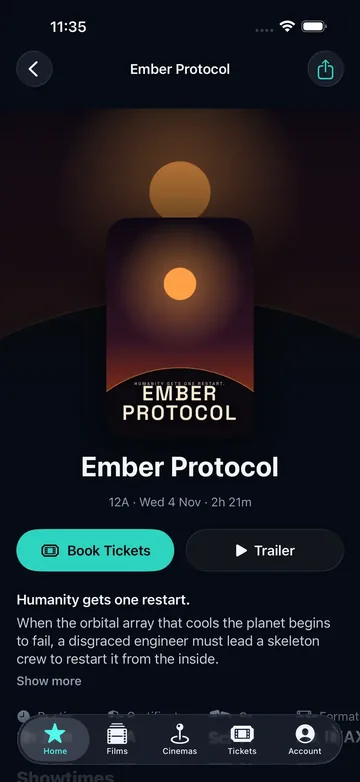
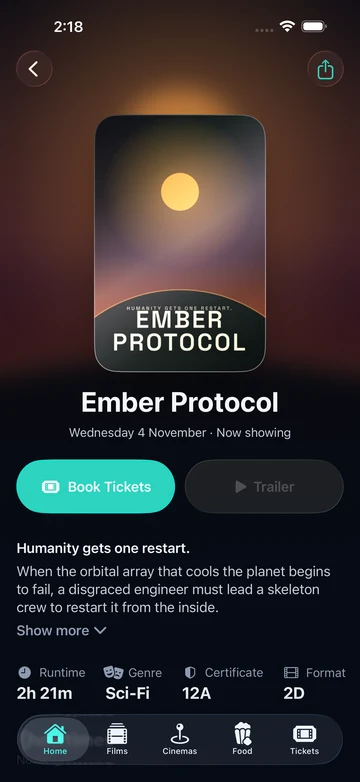
Marketing site: Pulse, live AI layer, loyalty and 3x portal screenshots (#75)
* Add Seatfold marketing page built with the Taste Skill

A one-page static marketing site for the white-label cinema platform, in site/.
Built by following the design-taste-frontend skill's run: dealt hero, palette,
type, nav, close, rhythm, effect and scroll moment, then its layout, consistency
and perf checkers in a real browser.

- Real product material only: CI simulator captures of the Northlight build,
  a live 226-seat map drawn from shared/fixtures/layouts/curved.json, the
  portal's release and contrast screens rebuilt as live HTML.
- Copy taken from the repo docs; unbuilt items (ticketing adapters, Apple Pay,
  signed Wallet passes, multi-brand) are described as not built yet.
- Static HTML and CSS, no build step. Kit files trimmed to the 25 the page
  loads (560 KB).
- The skill install (.agents/) is ignored; skills-lock.json reinstalls it.

Claude-Session: https://claude.ai/code/session_01N7UCKMXXqUDas7HYbnDuM1

* Fix the seat map: rows overlapped and hovered seats lost their angle

The layout stores every coordinate as a fraction of the auditorium's width,
y included (as shared/fixtures/layouts/curved.preview.svg draws it). The map
scaled y and seat height by the layout's height instead, which pulled rows
about 9% closer together so neighbouring seats collided. Entrances and the
screen curve had the same mistake.

Each seat now sits in a group that places and turns it, so the hover scale on
[…]

diff --git a/site/index.html b/site/index.html
@@ -4,7 +4,7 @@
 <meta charset="utf-8">
 <meta name="viewport" content="width=device-width, initial-scale=1, viewport-fit=cover">
 <title>Seatfold: booking apps and planning for cinema chains and independents</title>
-<meta name="description" content="A native iPhone booking app in your cinema's name, a portal your team runs, and forecasts that plan staff and stock around the release slate. For national chains and independents.">
+<meta name="description" content="A native iPhone booking app in your cinema's name, a portal your team runs, and Pulse, which forecasts every show and the staff and food it needs. For national chains and independents.">
 <meta name="site-kind" content="software">
 <meta name="page-type" content="software">
 <link rel="canonical" href="https://www.seatfold.uk/">
@@ -17,7 +17,7 @@
 <meta property="og:site_name" content="Seatfold">
 <meta property="og:url" content="https://www.seatfold.uk/">
 <meta property="og:title" content="Seatfold: your cinema’s own booking app">
-<meta property="og:description" content="A native iPhone booking app in your brand, run from one portal, with planning around the release slate. For national chains and independents.">
+<meta property="og:description" content="A native iPhone booking app in your brand, run from one portal, with every show forecast by Pulse. For national chains and independents.">
 <meta property="og:image" content="https://www.seatfold.uk/og-image.jpg">
 <meta property="og:image:type" content="image/jpeg">
 <meta property="og:image:width" content="1200">
@@ -26,7 +26,7 @@
 <meta property="og:locale" content="en_GB">
 <meta name="twitter:card" content="summary_large_image">
 <meta name="twitter:title" content="Seatfold: your cinema’s own booking app">
-<meta name="twitter:description" content="A native iPhone booking app in your brand, run from one portal, with planning around the release slate.">
+<meta name="twitter:description" content="A native iPhone booking app in your brand, run from one portal, with every show forecast by Pulse.">
 <meta name="twitter:image" content="https://www.seatfold.uk/og-image.jpg">
 <meta name="twitter:image:alt" content="Seatfold: your cinema’s own booking app. Three iPhones show the same booking app in three cinema brands.">
 <link rel="preload" href="fonts/onest-latin.woff2" as="font" type="font/woff2" crossorigin>
@@ -94,7 +94,7 @@
               <span class="t-small muted">Brand, prices and menus for every cinema</span>
             </a>
             <a class="menu-card span-4" href="#journey">
-              <div class="panel menu-pic"><div class="device device--menu"><img src="img/app-home-thumb.webp" width="280" height="609" loading="lazy" alt="The Northlight app home screen"></div></div>
+              <div class="panel menu-pic"><div class="device device--menu"><img src="img/app-home-thumb.webp" width="560" height="1217" loading="lazy" alt="The Northlight app home screen"></div></div>
               <span class="t-card">iPhone booking app</span>
               <span class="t-small muted">Seats, food and tickets in your name</span>
             </a>
@@ -110,7 +110,7 @@
       <div class="nav__item"><a class="nav__link" href="#plan">Planning</a></div>
       <div class="nav__item"><a class="nav__link" href="#seats">Seating</a></div>
       <div class="nav__item"><a class="nav__link" href="#native">iPhone</a></div>
-      <div class="nav__item"><a class="nav__link" href="#connect">Connect</a></div>
+      <div class="nav__item"><a class="nav__link" href="#connect">AI insights</a></div>
       <div class="nav__item"><a class="nav__link" href="#questions">Questions</a></div>
     </nav>
     <div class="nav__actions">
@@ -132,9 +132,9 @@
   <section class="hero hero--centred bg-deep" aria-labelledby="hero-h">
     <div class="wrap"><div class="hero-text">
       <div class="hero__c">
-        <a class="pill" href="#plan"><span>New: Year ahead</span><span class="muted">plan staff and stock from the release slate</span></a>
+        <a class="pill" href="#plan"><span>New: Pulse</span><span class="muted">every show forecast, with the staff and food it needs</span></a>
         <h1 id="hero-h">Your cinema’s <span class="hero__own">own</span> booking app</h1>
-        <p class="hero__lead">Sell seats, food and drink in one iPhone app with your name on it. Run it from one portal, plan the year around the release slate, and own the data on every booking. For a national chain or a single screen.</p>
+        <p class="hero__lead">Sell seats, food and drink in one iPhone app with your name on it. Run it from one portal, see every show forecast before it plays, and own the data on every booking. For a national chain or a single screen.</p>
         <div class="btn-row">
           <a class="btn btn--primary" href="mailto:hello@seatfold.uk?subject=Seatfold%20demo">Book a demo<svg class="m-arrow" viewBox="0 0 12 12" aria-hidden="true"><path class="m-arrow__stem" d="M1 6h8"/><path class="m-arrow__head" d="M4.5 2.5 8 6l-3.5 3.5"/></svg></a>
           <a class="btn btn--secondary" href="#journey">See the booking flow</a>
@@ -217,7 +217,7 @@
           <h3>Every site under one account</h3>
           <ul class="who__list">
             <li>Each cinema keeps its own screens, seat maps, menus and prices</li>
-            <li>Head office plans staff, stock and marketing across the estate</li>
+            <li>Every show at every site forecast by Pulse, with the staff and food it needs</li>
             <li>Roles for head office, venue managers and floor staff, each seeing what they need</li>
             <li>Brand releases you schedule, check and roll back across every app</li>
           </ul>
@@ -231,7 +231,7 @@
           <h3>Your own app, without a development team</h3>
           <ul class="who__list">
             <li>Your name, colours and artwork in a native iPhone app</li>
-            <li>Change prices, offers and menus yourself, live</li>
+            <li>Change prices, offers, menus and memberships yourself, live</li>
             <li>The same seat maps, food ordering and Wallet-style tickets as the big chains</li>
             <li>Keep the customer and the booking data, not a listing site</li>
           </ul>
@@ -399,28 +399,29 @@
         </div>
         <div class="cmp__row" role="row"><span role="cell">Logo, wordmark, theme and palette</span><span class="cmp__yes" role="cell">Live<span class="sr-only">: included</span></span><span class="cmp__no" role="cell">Not needed</span></div>
         <div class="cmp__row" role="row"><span role="cell">Home screen sections, offers and splash artwork</span><span class="cmp__yes" role="cell">Live</span><span class="cmp__no" role="cell">Not needed</span></div>
-        <div class="cmp__row" role="row"><span role="cell">Ticket prices, booking fees and vouchers</span><span class="cmp__yes" role="cell">Live</span><span class="cmp__no" role="cell">Not needed</span></div>
+        <div class="cmp__row" role="row"><span role="cell">Ticket prices, vouchers, points and memberships</span><span class="cmp__yes" role="cell">Live</span><span class="cmp__no" role="cell">Not needed</span></div>
         <div class="cmp__row" role="row"><span role="cell">Seat categories, icons, colours and seat rules</span><span class="cmp__yes" role="cell">Live</span><span class="cmp__no" role="cell">Not needed</span></div>
         <div class="cmp__row" role="row"><span role="cell">Auditorium layouts and food menus</span><span class="cmp__yes" role="cell">Live</span><span class="cmp__no" role="cell">Not needed</span></div>
         <div class="cmp__row" role="row"><span role="cell">App icon and App Store name</span><span class="cmp__no" role="cell">Not possible</span><span class="cmp__yes cmp__yes--build" role="cell"><span class="cmp__d">Yes</span><span class="cmp__m">New build</span></span></div>
         <div class="cmp__row" role="row"><span role="cell">Wallet pass type and Apple Pay merchant ID</span><span class="cmp__no" role="cell">Not possible</span><span class="cmp__yes cmp__yes--build" role="cell"><span class="cmp__d">Yes</span><span class="cmp__m">New build</span></span></div>
       </div>
       <div class="frame frame--fill remote-shot span-6 start-7">
-        <div class="device device--remote" role="img" aria-label="The film page for Ember Protocol in the Northlight app: artwork, certificate, running time and Book Tickets, all set from the portal"><img src="img/app-film-detail.webp" srcset="img/app-film-detail-360.webp 360w, img/app-film-detail-560.webp 560w, img/app-film-detail.webp 720w" sizes="(max-width: 1279px) 170px, 260px" alt="" width="720" height="1565" loading="lazy"></div>
+        <div class="device device--remote device--back" role="img" aria-label="The film page for Ember Protocol in the Northlight app: artwork, certificate and Book Tickets, all set from the portal"><img src="img/app-film-detail-660.webp" srcset="img/app-film-detail-360.webp 360w, img/app-film-detail-660.webp 660w, img/app-film-detail.webp 1320w" sizes="(max-width: 1279px) 170px, 260px" alt="" width="1320" height="2868" loading="lazy"></div>
+        <div class="device device--remote device--front" role="img" aria-label="The account screen in the Northlight app: 1,524 reward points worth £7 off, and a membership from £6.99 a month with 25% off tickets and no booking fees"><img src="img/app-account-660.webp" srcset="img/app-account-360.webp 360w, img/app-account-660.webp 660w, img/app-account.webp 1320w" sizes="(max-width: 1279px) 170px, 260px" alt="" width="1320" height="2868" loading="lazy"></div>
       </div>
       </div>
     </div>
   </section>
 
 
-  <!-- PLAN: the forecast seen by three roles. Real captures of the portal (sample data, badged
+  <!-- PLAN: Pulse seen by three roles. Real 3x captures of the portal (demo history, badged
        there), switched by the kit's tabs. -->
   <section class="section" id="plan" aria-labelledby="plan-h">
     <div class="wrap">
       <div class="grid plan__head">
-        <h2 id="plan-h" class="span-7">Plan the year, not just the weekend. <span class="muted">The release slate becomes staff, stock and marketing.</span></h2>
+        <h2 id="plan-h" class="span-7">Know how full every show will be. <span class="muted">Then staff it, stock it and price it.</span></h2>
         <div class="span-4 start-9 stack-4 plan__intro">
-          <p>Seatfold reads the year’s releases, your trading and the school holidays, and turns them into a plan. Each person sees their part.</p>
+          <p>Pulse, Seatfold’s forecasting engine, predicts every show from your own bookings, the time and day, how films hold up and what people are reading and saying. Each person sees what it means for them.</p>
           <div class="tabs plan__tabs" role="tablist" aria-label="Who is looking">
             <button class="tab" type="button" role="tab" id="plan-t1" aria-controls="plan-p1" aria-selected="true">Head office</button>
             <button class="tab" type="button" role="tab" id="plan-t2" aria-controls="plan-p2" aria-selected="false">Venue manager</button>
@@ -431,27 +432,27 @@
       <div class="plan__panes fill">
         <div class="grid plan__pane" role="tabpanel" id="plan-p1" aria-labelledby="plan-t1">
           <div class="span-3 stack-4 plan__copy">
-            <h3>The next twelve months</h3>
-            <p>Demand week by week against last year, with every big release marked. Which months need seasonal staff, what to order and when, and when each campaign starts.</p>
+            <h3>Forecasts you can check</h3>
+            <p>Every show forecast with a range, scored against weeks it had not seen. Pulse learns what is different about each of your cinemas, days and films, and says so in plain English.</p>
           </div>
-          <div class="span-9 plan__shot"><img src="img/portal-ya-1280.webp" srcset="img/portal-ya-640.webp 640w, img/portal-ya-1280.webp 1280w, img/portal-ya.webp 2560w" sizes="(max-width: 1023px) 100vw, 940px" width="1280" height="820" loading="lazy" alt="Year ahead in the portal: forecast admissions, the demand curve with releases marked, and staffing by month"></div>
+          <div class="span-9 plan__shot"><img src="img/portal-pulse-1920.webp" srcset="img/portal-pulse-960.webp 960w, img/portal-pulse-1920.webp 1920w, img/portal-pulse.webp 3840w" sizes="(max-width: 1023px) 100vw, 940px" width="1920" height="1230" loading="lazy" alt="Pulse in the portal: how full a typical UK screen is, how accurate Pulse has been a week, a day and three hours out, and audience interest by film"></div>
         </div>
         <div class="grid plan__pane" role="tabpanel" id="plan-p2" aria-labelledby="plan-t2" hidden>
           <div class="span-3 stack-4 plan__copy">
-            <h3>The next six weeks, for one cinema</h3>
-            <p>Hours needed against the rota, how many shifts to add, the big nights and what to do on them, and the orders to place. One button copies it into whichever rota app you use.</p>
+            <h3>Today, for one cinema</h3>
+            <p>Who is on shift from your rota app, tills and ushers needed each half hour against who is on, and the food to prepare. When people start talking about a film, it tells you before the queue does.</p>
           </div>
-          <div class="span-9 plan__shot"><img src="img/portal-nw-1280.webp" srcset="img/portal-nw-640.webp 640w, img/portal-nw-1280.webp 1280w, img/portal-nw.webp 2560w" sizes="(max-width: 1023px) 100vw, 940px" width="1280" height="820" loading="lazy" alt="Next 6 weeks in the portal: a card per week with hours needed against the rota and the shifts to add"></div>
+          <div class="span-9 plan__shot"><img src="img/portal-today-1920.webp" srcset="img/portal-today-960.webp 960w, img/portal-today-1920.webp 1920w, img/portal-today.webp 3840w" sizes="(max-width: 1023px) 100vw, 940px" width="1920" height="1230" loading="lazy" alt="Today in the portal: shows and seats sold, the team on shift from Planday, and a Pulse alert that talk about a film has doubled this week"></div>
         </div>
         <div class="grid plan__pane" role="tabpanel" id="plan-p3" aria-labelledby="plan-t3" hidden>
           <div class="span-3 stack-4 plan__copy">
-            <h3>This week, and nothing else</h3>
-            <p>Shifts with a heads-up on the busy ones, the team briefing and what’s coming. No forecasts, no revenue.</p>
+            <h3>Your shifts, and nothing else</h3>
+            <p>Each person’s shifts straight from the rota app, what is still to come tonight, the team briefing and what is coming up. No forecasts, no revenue.</p>
           </div>
-          <div class="span-9 plan__shot"><img src="img/portal-mw-1280.webp" srcset="img/portal-mw-640.webp 640w, img/portal-mw-1280.webp 1280w, img/portal-mw.webp 2560w" sizes="(max-width: 1023px) 100vw, 940px" width="1280" height="820" loading="lazy" alt="My week in the portal: shifts with busy-night notes, the team briefing and an upcoming opening"></div>
+          <div class="span-9 plan__shot"><img src="img/portal-mw-1920.webp" srcset="img/portal-mw-960.webp 960w, img/portal-mw-1920.webp 1920w, img/portal-mw.webp 3840w" sizes="(max-width: 1023px) 100vw, 940px" width="1920" height="1230" loading="lazy" alt="My week in the portal: one person’s shifts from Planday, tonight’s shows, the team briefing and an upcoming opening"></div>
         </div>
       </div>
-      <p class="t-small muted plan__note">Shown with sample data and fictional film titles. With your account, the forecast runs on your own bookings.</p>
+      <p class="t-small muted plan__note">Shown on demo history with fictional films, labelled as such in the portal. With your account, Pulse learns from your own shows. Rotas connect from Planday, Deputy, RotaCloud or any tool through the API.</p>
     </div>
   </section>
 
@@ -466,8 +467,8 @@
         <div class="card span-4"><span class="plat__ico" aria-hidden="true"><svg viewBox="0 0 24 24"><rect x="3" y="4" width="7" height="16" rx="1.5"/><rect x="14" y="4" width="7" height="16" rx="1.5"/></svg></span><h3>Every operator kept apart</h3><p>Each chain’s data is separated on every request. Each cinema in it keeps its own screens, menus and prices.</p></div>
         <div class="card span-4"><span class="plat__ico" aria-hidden="true"><svg viewBox="0 0 24 24"><circle cx="6" cy="6" r="2.5"/><circle cx="6" cy="18" r="2.5"/><circle cx="18" cy="12" r="2.5"/><path d="M6 8.5v7M8.3 7.2 15.7 11M8.3 16.8l7.4-3.8"/></svg></span><h3>Changes are versioned releases</h3><p>Branding and settings go out as releases you can schedule and roll back. A published seat map never changes under a booking.</p></div>
         <div class="card span-4"><span class="plat__ico" aria-hidden="true"><svg viewBox="0 0 24 24"><circle cx="12" cy="12" r="9"/><path d="M12 3v18M12 3a9 9 0 0 1 0 18"/></svg></span><h3>Accessible before it goes live</h3><p>Every colour pair in a theme is checked against WCAG 2.2 AA before it can publish, and the app works with VoiceOver and larger text.</p></div>
-        <div class="card span-4"><span class="plat__ico" aria-hidden="true"><svg viewBox="0 0 24 24"><path d="M20 12a8 8 0 1 1-2.3-5.6M20 4v4h-4"/></svg></span><h3>Film data that keeps itself fresh</h3><p>Titles, certificates, running times and artwork come from a film data feed and refresh every morning, with showtimes kept a week ahead.</p></div>
-        <div class="card span-4"><span class="plat__ico" aria-hidden="true"><svg viewBox="0 0 24 24"><path d="M8 7l-5 5 5 5M16 7l5 5-5 5M13.5 5l-3 14"/></svg></span><h3>An open, documented API</h3><p>Everything the app and portal do is a documented API, so your ticketing system, website and partners can connect.</p></div>
+        <div class="card span-4"><span class="plat__ico" aria-hidden="true"><svg viewBox="0 0 24 24"><path d="M20 12a8 8 0 1 1-2.3-5.6M20 4v4h-4"/></svg></span><h3>Films ready to book</h3><p>Titles, certificates, artwork, cast and Parents Guide advice on every film page, from your distributor or film data feed.</p></div>
+        <div class="card span-4"><span class="plat__ico" aria-hidden="true"><svg viewBox="0 0 24 24"><path d="M8 7l-5 5 5 5M16 7l5 5-5 5M13.5 5l-3 14"/></svg></span><h3>An open, documented API</h3><p>Scoped keys for your partners, signed webhooks for every booking and refund, and an OpenAPI reference. Your ticketing system connects through an adapter.</p></div>
       </div>
     </div>
   </section>
@@ -598,25 +599,23 @@
     </div>
   </section>
 
-  <!-- QUESTIONS: faq on the page's split, every answer open. -->
-  <!-- CONNECT: MCP, coming soon (the client's brief: suppliers and partners). A bowtie diagram card:
-       distributors and food suppliers in, showtimes out to listing partners. -->
+  <!-- CONNECT: the AI layer (live) over Pulse, and the doors that are open today: the partner API and webhooks. -->
   <section class="section" id="connect" aria-labelledby="connect-h">
     <div class="wrap">
       <div class="grid">
         <div class="span-6 stack-4">
-          <p class="pill connect__tag">Coming soon</p>
-          <h2 id="connect-h">An AI layer on your cinema data. <span class="muted">Built on MCP.</span></h2>
+          <p class="pill connect__tag">Live in the portal</p>
+          <h2 id="connect-h">An AI layer on your cinema data. <span class="muted">It tells you what to do next, and why.</span></h2>
         </div>
-        <p class="t-lead span-6 start-7">Seatfold will run an MCP server, the open standard AI agents use, on top of your booking data. Your team, your customers and your suppliers all get more from it.</p>
+        <p class="t-lead span-6 start-7">Switch on AI insights and Pulse turns its forecasts into moves for the week ahead: a price to review, a run to end, a film people have started talking about. Each one shows what it is worth and how sure Pulse is.</p>
       </div>
-      <div class="frame connect__frame fill">
-        <div class="dg" data-diagram><script type="application/json">{"layout":"bowtie","orient":"h","alt":"Film distributors, food suppliers, ticketing systems, payment providers, staff rotas and loyalty systems connect into Seatfold through MCP; your app, AI assistants, listing and search sites, and reports read from it.","sources":[{"label":"Film distributors","icon":"ui:clapperboard","sub":"Films and artwork"},{"label":"Food suppliers","icon":"ui:popcorn","sub":"Products and stock"},{"label":"Ticketing systems","icon":"ui:ticket","sub":"Sessions and seats"},{"label":"Payment providers","icon":"ui:credit-card","sub":"Payments and refunds"},{"label":"Staff rotas","icon":"ui:calendar-clock","sub":"Shifts and cover"},{"label":"Loyalty and CRM","icon":"ui:users","sub":"Members and points"}],"core":{"label":"Seatfold MCP","icon":"ui:plug"},"targets":[{"label":"Your app","icon":"ui:smartphone","sub":"Customers book"},{"label":"AI assistants","icon":"ui:bot","sub":"What’s on, free seats"},{"label":"Listings and search","icon":"ui:globe","sub":"Showtimes everywhere"},{"label":"Reports","icon":"ui:chart-column","sub":"Sales and takings"}],"ground":"dots"}</script></div>
+      <div class="frame connect__frame connect__frame--shot fill">
+        <picture><source media="(max-width: 639px)" srcset="img/portal-ai-m-670.webp 670w, img/portal-ai-m.webp 1340w" sizes="100vw" width="670" height="1060"><img src="img/portal-ai-1920.webp" srcset="img/portal-ai-960.webp 960w, img/portal-ai-1920.webp 1920w, img/portal-ai.webp 3840w" sizes="(max-width: 1279px) 100vw, 1200px" width="1920" height="1230" loading="lazy" alt="AI insights in the portal: four price moves worth £301.78 this week, each with its forecast, confidence and a Review price button, plus a social alert and a run to end"></picture>
       </div>
       <div class="grid connect__cols">
-        <div class="span-4"><h3>Answers questions about your sales</h3><p>Ask which shows were quiet last week or where bookings drop out, in plain English.</p></div>
-        <div class="span-4"><h3>Drafts offers and changes for you</h3><p>An offer for a quiet show or a late screening for a busy one, waiting in your portal for your team to publish.</p></div>
-        <div class="span-4"><h3>Puts your showtimes in AI assistants</h3><p>Customers ask an assistant what’s on tonight, see your free seats and book in your app.</p></div>
+        <div class="span-4"><h3>Moves worth acting on</h3><p>Prices to review, runs to end, films to give more screens. Pulse never changes anything itself: your team decides.</p></div>
+        <div class="span-4"><h3>Ask in plain English</h3><p>Ask Pulse which shows will be quiet this weekend or what a price change would do. Every figure in the answer comes from Pulse’s own forecasts.</p></div>
+        <div class="span-4"><h3>Connect your other systems</h3><p>Rota apps send shifts in; your BI and accounting tools read films, shows and sales through scoped API keys and signed webhooks.</p></div>
       </div>
     </div>
   </section>
@@ -634,11 +633,11 @@
           <div class="faq__item"><h3>Is it a native app or a web view?</h3><p>Native. The app is built in SwiftUI for iPhone, and the seat map is drawn on the phone.</p></div>
           <div class="faq__item"><h3>Do we get our own App Store listing?</h3><p>Yes. Each operator gets its own build with its own name and icon. Everything else changes from the portal.</p></div>
           <div class="faq__item"><h3>Is it only for big chains?</h3><p>No. A single-screen independent gets the same app, portal and seat maps as a national chain. Chains also get head office planning and roles for every site.</p></div>
-          <div class="faq__item"><h3>Where does the forecast come from?</h3><p>The year’s release calendar, your past trading and the school holidays. The demo runs on sample data; with your account it runs on your own bookings.</p></div>
+          <div class="faq__item"><h3>Where does the forecast come from?</h3><p>Pulse starts from published UK figures, then learns from your own shows: each cinema, day, time and film. It also reads bank holidays, Wikipedia page views and talk on Bluesky. The demo runs on labelled demo history.</p></div>
           <div class="faq__item"><h3>Can we run more than one cinema?</h3><p>Yes. Each venue has its own screens, seat maps, menus and features, all under one operator account.</p></div>
           <div class="faq__item"><h3>Can customers order food to their seat?</h3><p>Yes, at venues that turn on seat delivery. Food goes into the same booking as the tickets, priced by the server.</p></div>
           <div class="faq__item"><h3>Who owns the booking data?</h3><p>You do. Every step from first tap to payment is yours: films viewed, seats picked, food added and drop-outs. Personal details are stripped, and customers can opt out.</p></div>
-          <div class="faq__item"><h3>Do you support loyalty and memberships?</h3><p>Not in the app yet. Points, memberships and gift cards are already modelled on the server and come next.</p></div>
+          <div class="faq__item"><h3>Do you support loyalty and memberships?</h3><p>Yes. Customers earn points on every booking and can join a paid membership in the app, with the plans and benefits you set in the portal. Gift cards come next.</p></div>
           <div class="faq__item"><h3>Do we have to replace our ticketing system?</h3><p>No. Seatfold is your customer app and portal. It connects through an adapter, written once we have licensed access to your system.</p></div>
           <div class="faq__item"><h3>How does the app take payments?</h3><p>Checkout runs in a test mode today. Apple Pay arrives through a payment provider once your merchant account is set up.</p></div>
       </div>
@@ -661,7 +660,7 @@
           <ul class="cta-panel__points">
             <li>Your brand</li>
             <li>Your screens</li>
-            <li>Your year ahead</li>
+            <li>Every show forecast</li>
           </ul>
         </div>
         <div class="cta-panel__visual" aria-hidden="true"><img src="img/cta-phones-1200.webp" srcset="img/cta-phones-600.webp 600w, img/cta-phones-1200.webp 1200w" sizes="(max-width: 1023px) 100vw, 640px" alt="" width="1200" height="624" loading="lazy"></div>
@@ -671,10 +670,10 @@
       <div class="grid">
         <div class="span-4 stack-4">
           <a class="nav__logo" href="#top"><span class="mark" data-mark="dots" aria-hidden="true"></span>Seatfold</a>
-          <p class="footer__lede">Native booking apps, an operator portal and release planning for cinema chains and independents.</p>
+          <p class="footer__lede">Native booking apps, an operator portal and Pulse forecasting for cinema chains and independents.</p>
           <a class="link" href="mailto:hello@seatfold.uk">hello@seatfold.uk</a>
         </div>
-        <div class="span-2 footer__col"><h3>Product</h3><ul><li><a href="#journey">iPhone booking app</a></li><li><a href="#portal">Operator portal</a></li><li><a href="#plan">Year-ahead planning</a></li><li><a href="#seats">Seat maps</a></li><li><a href="#connect">AI layer <span class="footer__soon">Soon</span></a></li></ul></div>
+        <div class="span-2 footer__col"><h3>Product</h3><ul><li><a href="#journey">iPhone booking app</a></li><li><a href="#portal">Operator portal</a></li><li><a href="#plan">Pulse forecasting</a></li><li><a href="#seats">Seat maps</a></li><li><a href="#connect">AI insights</a></li></ul></div>
         <div class="span-2 footer__col"><h3>Built for</h3><ul><li><a href="#who">Cinema chains</a></li><li><a href="#who">Independents</a></li><li><a href="#platform">Platform and security</a></li><li><a href="#native">iPhone features</a></li></ul></div>
         <div class="span-2 footer__col"><h3>Company</h3><ul><li><a href="mailto:hello@seatfold.uk?subject=Seatfold%20demo">Book a demo</a></li><li><a href="#questions">Questions</a></li><li><a href="mailto:hello@seatfold.uk">Contact</a></li></ul></div>
         <div class="span-2 footer__col"><h3>Legal</h3><ul><li><a href="terms.html">Terms of use</a></li><li><a href="privacy.html">Privacy policy</a></li><li><a href="attributions.html">Attributions</a></li></ul></div>

diff --git a/site/attributions.html b/site/attributions.html
@@ -67,6 +67,22 @@
           </div>
         </section>
         <section class="credit">
+          <h2>GOV.UK bank holidays</h2>
+          <p>Pulse uses the UK bank holiday dates published by GOV.UK.</p>
+          <p class="credit__notice">Contains public sector information licensed under the Open Government Licence v3.0.</p>
+          <p><a href="https://www.nationalarchives.gov.uk/doc/open-government-licence/version/3/">Open Government Licence</a></p>
+        </section>
+        <section class="credit">
+          <h2>Wikimedia</h2>
+          <p>Pulse reads public page view counts for film articles from the Wikimedia Foundation’s pageviews data, released under CC0.</p>
+          <p><a href="https://wikimediafoundation.org">wikimediafoundation.org</a></p>
+        </section>
+        <section class="credit">
+          <h2>Bluesky</h2>
+          <p>Pulse counts public posts about each film on Bluesky, through the open AT Protocol. Posts are shown live and never stored.</p>
+          <p><a href="https://bsky.social">bsky.social</a></p>
+        </section>
+        <section class="credit">
           <h2>Onest</h2>
           <p>Our typeface. SIL Open Font License 1.1.</p>
           <p><a href="https://fonts.google.com/specimen/Onest">Google Fonts</a></p>
@@ -86,7 +102,7 @@
           <p>iPhone, Live Activities, Spotlight, Apple Pay and Apple Wallet are trademarks of Apple Inc., registered in the U.S. and other countries.</p>
         </section>
       </div>
-      <p class="legal__small">Cinema names such as Northlight and Kestrel, and the film Ember Protocol, are fictional and used for demonstration.</p>
+      <p class="legal__small">Cinema names such as Northlight and Kestrel, films such as Ember Protocol, and the people and shifts in our screenshots are fictional and used for demonstration.</p>
     </article>
   </div>
 </main>
@@ -96,10 +112,10 @@
       <div class="grid">
         <div class="span-4 stack-4">
           <a class="nav__logo" href="/#top"><span class="mark" data-mark="dots" aria-hidden="true"></span>Seatfold</a>
-          <p class="footer__lede">Native booking apps, an operator portal and release planning for cinema chains and independents.</p>
+          <p class="footer__lede">Native booking apps, an operator portal and Pulse forecasting for cinema chains and independents.</p>
           <a class="link" href="mailto:hello@seatfold.uk">hello@seatfold.uk</a>
         </div>
-        <div class="span-2 footer__col"><h3>Product</h3><ul><li><a href="/#journey">iPhone booking app</a></li><li><a href="/#portal">Operator portal</a></li><li><a href="/#plan">Year-ahead planning</a></li><li><a href="/#seats">Seat maps</a></li><li><a href="/#connect">AI layer <span class="footer__soon">Soon</span></a></li></ul></div>
+        <div class="span-2 footer__col"><h3>Product</h3><ul><li><a href="/#journey">iPhone booking app</a></li><li><a href="/#portal">Operator portal</a></li><li><a href="/#plan">Pulse forecasting</a></li><li><a href="/#seats">Seat maps</a></li><li><a href="/#connect">AI insights</a></li></ul></div>
         <div class="span-2 footer__col"><h3>Built for</h3><ul><li><a href="/#who">Cinema chains</a></li><li><a href="/#who">Independents</a></li><li><a href="/#platform">Platform and security</a></li><li><a href="/#native">iPhone features</a></li></ul></div>
         <div class="span-2 footer__col"><h3>Company</h3><ul><li><a href="mailto:hello@seatfold.uk?subject=Seatfold%20demo">Book a demo</a></li><li><a href="/#questions">Questions</a></li><li><a href="mailto:hello@seatfold.uk">Contact</a></li></ul></div>
         <div class="span-2 footer__col"><h3>Legal</h3><ul><li><a href="terms.html">Terms of use</a></li><li><a href="privacy.html">Privacy policy</a></li><li><a href="attributions.html">Attributions</a></li></ul></div>

diff --git a/site/terms.html b/site/terms.html
@@ -63,7 +63,7 @@
       <h2>What is on the site</h2>
       <ul>
         <li>Cinema names on this site, such as Northlight and Kestrel, are fictional demo operators. Films, screens, prices and bookings shown are sample data.</li>
-        <li>Features marked “Coming soon”, such as the AI layer, are planned and not yet available. What they include and when they arrive may change.</li>
+        <li>Features marked “Coming soon” are planned and not yet available. What they include and when they arrive may change.</li>
         <li>We keep the site accurate, but it is general information, not a contract or an offer. What a cinema receives is set out in its agreement with us.</li>
       </ul>
       <h2>Our content and other people’s</h2>
@@ -86,10 +86,10 @@
       <div class="grid">
         <div class="span-4 stack-4">
           <a class="nav__logo" href="/#top"><span class="mark" data-mark="dots" aria-hidden="true"></span>Seatfold</a>
-          <p class="footer__lede">Native booking apps, an operator portal and release planning for cinema chains and independents.</p>
+          <p class="footer__lede">Native booking apps, an operator portal and Pulse forecasting for cinema chains and independents.</p>
           <a class="link" href="mailto:hello@seatfold.uk">hello@seatfold.uk</a>
         </div>
-        <div class="span-2 footer__col"><h3>Product</h3><ul><li><a href="/#journey">iPhone booking app</a></li><li><a href="/#portal">Operator portal</a></li><li><a href="/#plan">Year-ahead planning</a></li><li><a href="/#seats">Seat maps</a></li><li><a href="/#connect">AI layer <span class="footer__soon">Soon</span></a></li></ul></div>
+        <div class="span-2 footer__col"><h3>Product</h3><ul><li><a href="/#journey">iPhone booking app</a></li><li><a href="/#portal">Operator portal</a></li><li><a href="/#plan">Pulse forecasting</a></li><li><a href="/#seats">Seat maps</a></li><li><a href="/#connect">AI insights</a></li></ul></div>
         <div class="span-2 footer__col"><h3>Built for</h3><ul><li><a href="/#who">Cinema chains</a></li><li><a href="/#who">Independents</a></li><li><a href="/#platform">Platform and security</a></li><li><a href="/#native">iPhone features</a></li></ul></div>
         <div class="span-2 footer__col"><h3>Company</h3><ul><li><a href="mailto:hello@seatfold.uk?subject=Seatfold%20demo">Book a demo</a></li><li><a href="/#questions">Questions</a></li><li><a href="mailto:hello@seatfold.uk">Contact</a></li></ul></div>
         <div class="span-2 footer__col"><h3>Legal</h3><ul><li><a href="terms.html">Terms of use</a></li><li><a href="privacy.html">Privacy policy</a></li><li><a href="attributions.html">Attributions</a></li></ul></div>

diff --git a/site/privacy.html b/site/privacy.html
@@ -87,10 +87,10 @@
       <div class="grid">
         <div class="span-4 stack-4">
           <a class="nav__logo" href="/#top"><span class="mark" data-mark="dots" aria-hidden="true"></span>Seatfold</a>
-          <p class="footer__lede">Native booking apps, an operator portal and release planning for cinema chains and independents.</p>
+          <p class="footer__lede">Native booking apps, an operator portal and Pulse forecasting for cinema chains and independents.</p>
           <a class="link" href="mailto:hello@seatfold.uk">hello@seatfold.uk</a>
         </div>
-        <div class="span-2 footer__col"><h3>Product</h3><ul><li><a href="/#journey">iPhone booking app</a></li><li><a href="/#portal">Operator portal</a></li><li><a href="/#plan">Year-ahead planning</a></li><li><a href="/#seats">Seat maps</a></li><li><a href="/#connect">AI layer <span class="footer__soon">Soon</span></a></li></ul></div>
+        <div class="span-2 footer__col"><h3>Product</h3><ul><li><a href="/#journey">iPhone booking app</a></li><li><a href="/#portal">Operator portal</a></li><li><a href="/#plan">Pulse forecasting</a></li><li><a href="/#seats">Seat maps</a></li><li><a href="/#connect">AI insights</a></li></ul></div>
         <div class="span-2 footer__col"><h3>Built for</h3><ul><li><a href="/#who">Cinema chains</a></li><li><a href="/#who">Independents</a></li><li><a href="/#platform">Platform and security</a></li><li><a href="/#native">iPhone features</a></li></ul></div>
         <div class="span-2 footer__col"><h3>Company</h3><ul><li><a href="mailto:hello@seatfold.uk?subject=Seatfold%20demo">Book a demo</a></li><li><a href="/#questions">Questions</a></li><li><a href="mailto:hello@seatfold.uk">Contact</a></li></ul></div>
         <div class="span-2 footer__col"><h3>Legal</h3><ul><li><a href="terms.html">Terms of use</a></li><li><a href="privacy.html">Privacy policy</a></li><li><a href="attributions.html">Attributions</a></li></ul></div>

diff --git a/site/site.css b/site/site.css
@@ -796,3 +796,16 @@ html:not([data-motion="off"]) .btn:hover, html:not([data-motion="off"]) .btn--xl
 }
 /* phones: the header button reads just "Book" (screen readers still hear "Book a demo") */
 @media (max-width: 639px) { .nav__cta-more { display: none; } }
+
+/* "change it live": two phones, the film page behind and the account screen (points and membership) in front */
+.remote-shot .device--back { translate: -92% 6%; rotate: -4deg; opacity: .9; }
+.remote-shot .device--front { translate: -8% 0; rotate: 3deg; z-index: 1; box-shadow: 0 30px 60px -20px rgb(0 0 0 / .7); }
+/* the AI layer: a real portal capture in the connect frame */
+.connect__frame--shot { padding: clamp(16px, 3vw, 40px) clamp(16px, 3vw, 40px) 0; overflow: hidden; }
+.connect__frame--shot img { display: block; width: 100%; height: auto; border-radius: 14px 14px 0 0; box-shadow: 0 24px 70px -30px rgb(0 0 0 / .8); border: 1px solid rgb(255 255 255 / .08); border-bottom: 0; }
+@media (max-width: 639px) { main > #connect > .wrap > .connect__frame--shot { height: auto; } }
+/* portal captures: crisp edges and a quiet frame */
+.plan__shot img { border-radius: 12px; border: 1px solid rgb(255 255 255 / .08); }
+main > #connect > .wrap > .connect__frame--shot { flex: none !important; height: auto !important; min-height: 0 !important; max-height: none !important; aspect-ratio: auto !important; }
+.connect__frame--shot img { -webkit-mask: linear-gradient(#000 78%, transparent); mask: linear-gradient(#000 78%, transparent); }
+.connect__frame--shot > picture { display: block; }

diff --git a/admin/app/(portal)/today/page.tsx b/admin/app/(portal)/today/page.tsx
@@ -6,6 +6,7 @@ import { SafeImage } from '@/components/SafeImage';
 import { mediaUrl, PulseFood, PulseForecast, PulseForecasts, PulseStaffing, ShiftRow, tenantPath, VenueToday } from '@/lib/api';
 import { ForecastSheet, paceTone, PulseBasisLine } from '@/components/pulse';
 import { useCinemaScope } from '@/lib/cinema-scope';
+import { rotaName } from '@/lib/format';
 import { useSession, useTenantData } from '@/lib/session';
 
 /*
@@ -111,7 +112,7 @@ export default function TodayPage() {
           <section className="card onshift" aria-labelledby="onshift-h">
             <div className="row between">
               <h2 id="onshift-h" className="h3">On shift</h2>
-              <span className="muted small">{onShift.length ? `From ${onShift[0].source}` : 'Connect your rota in Connections to see who is working'}</span>
+              <span className="muted small">{onShift.length ? `From ${rotaName(onShift[0].source)}` : 'Connect your rota in Connections to see who is working'}</span>
             </div>
             {onShift.length > 0 && (
               <ul className="onshift-list">

diff --git a/admin/app/(portal)/my-week/page.tsx b/admin/app/(portal)/my-week/page.tsx
@@ -3,6 +3,7 @@
 import { PageHeader } from '@/components/ui';
 import { ShiftRow, tenantPath, VenueToday } from '@/lib/api';
 import { useCinemaScope } from '@/lib/cinema-scope';
+import { rotaName } from '@/lib/format';
 import { useSession, useTenantData } from '@/lib/session';
 import { SLATE, START, weekDate, weekdayLabel } from '@/lib/slate';
 
@@ -50,7 +51,7 @@ export default function MyWeekPage() {
       <PageHeader
         title="My week"
         description={`${real.length ? (mine.length ? me.name : 'The team') : 'Sam'} · ${site?.name ?? 'your cinema'}`}
-        actions={real.length ? <span className="badge badge-success">From {real[0].source}</span> : <span className="badge badge-sample">Sample shifts · connect your rota</span>}
+        actions={real.length ? <span className="badge badge-success">From {rotaName(real[0].source)}</span> : <span className="badge badge-sample">Sample shifts · connect your rota</span>}
       />
 
       <section aria-labelledby="mw-shifts">

diff --git a/admin/lib/format.ts b/admin/lib/format.ts
@@ -128,3 +128,7 @@ export function permissions(role: string) {
     canManageTeam: operator,
   };
 }
+
+/** A rota source as people know it: sources arrive lower-case ("planday"), so known ones get their real names. */
+const ROTA_NAMES: Record<string, string> = { planday: 'Planday', deputy: 'Deputy', rotacloud: 'RotaCloud' };
+export const rotaName = (source: string) => ROTA_NAMES[source] ?? (source ? source[0].toUpperCase() + source.slice(1) : source);

diff --git a/site/README.md b/site/README.md
@@ -15,7 +15,7 @@ Cloudflare Pages, Vercel or Netlify.
 | Portal | The release history beside a draft release, with its palette and WCAG contrast checks | Live HTML matching `admin/` (Releases, Branding) |
 | Booking | Seats, food, ticket: three real app captures that change as you scroll | `ci-screenshots` |
 | Changes | What changes live vs what needs an App Store build | `docs/feature-parity.md` |
-| Plan | Year ahead, Next 6 weeks and My week, one tab per role | Portal captures (`img/portal-*.webp`, sample data) |
+| Plan | Pulse, Today and My week, one tab per role | Portal captures at 3x (`img/portal-*.webp`, demo history, labelled) |
 | Platform | What sits underneath, for whoever signs off the technology | `CLAUDE.md` rules, `backend/` |
 | Seating | A live 226-seat map you can tap | `shared/fixtures/layouts/curved.json` |
 | iPhone | Live Activity, offline ticket, Spotlight, VoiceOver list, Calendar | `docs/apple-integrations.md`, the app |
